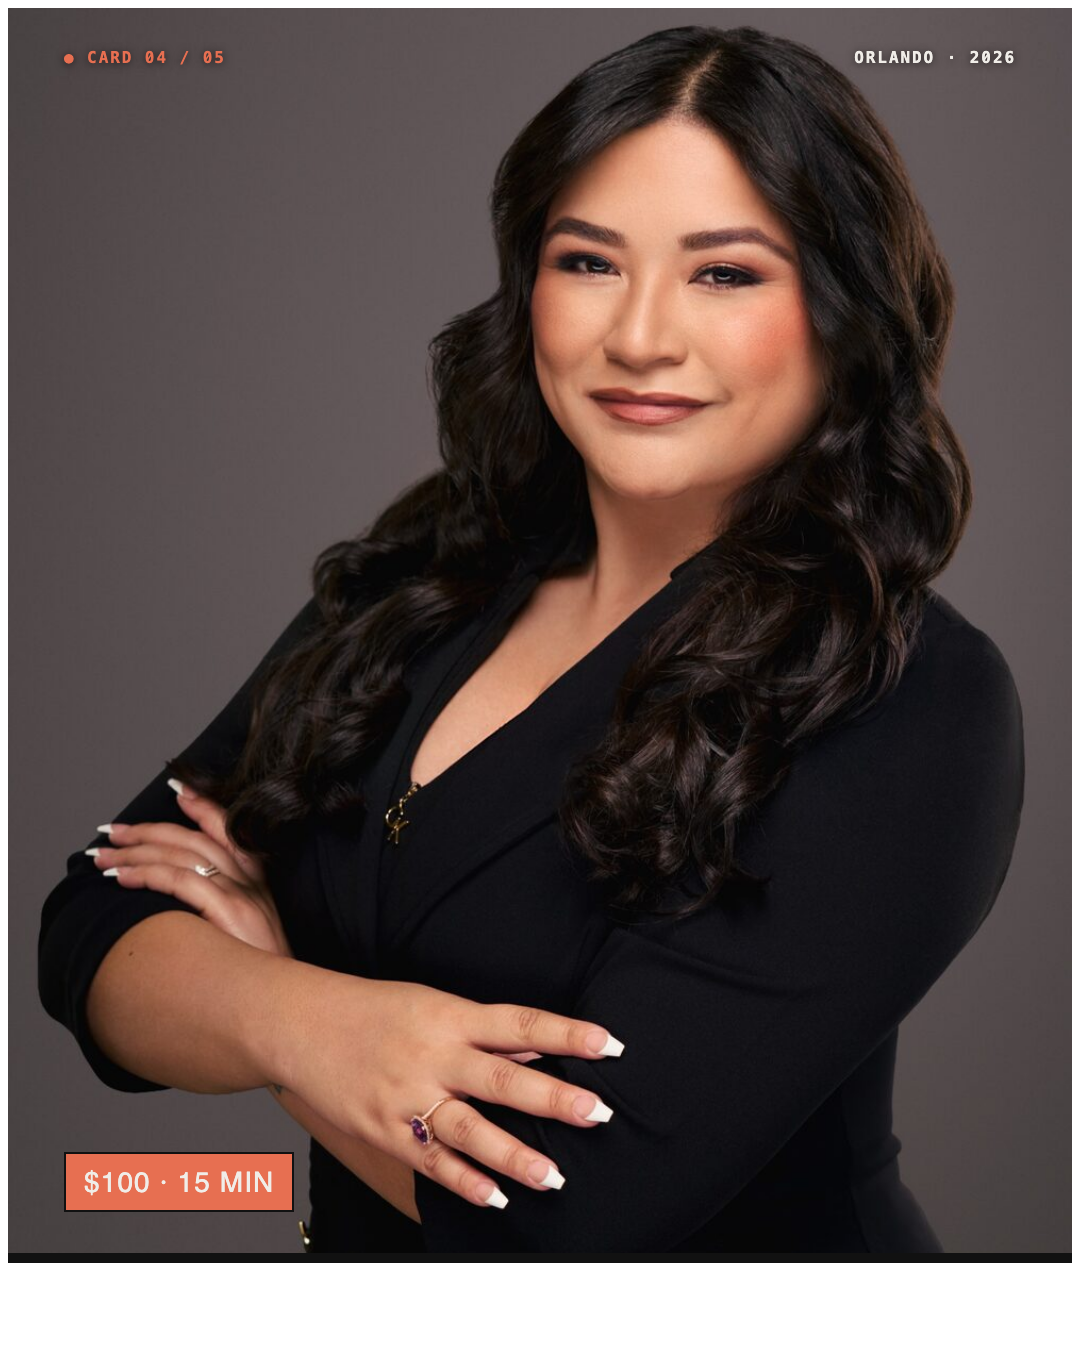
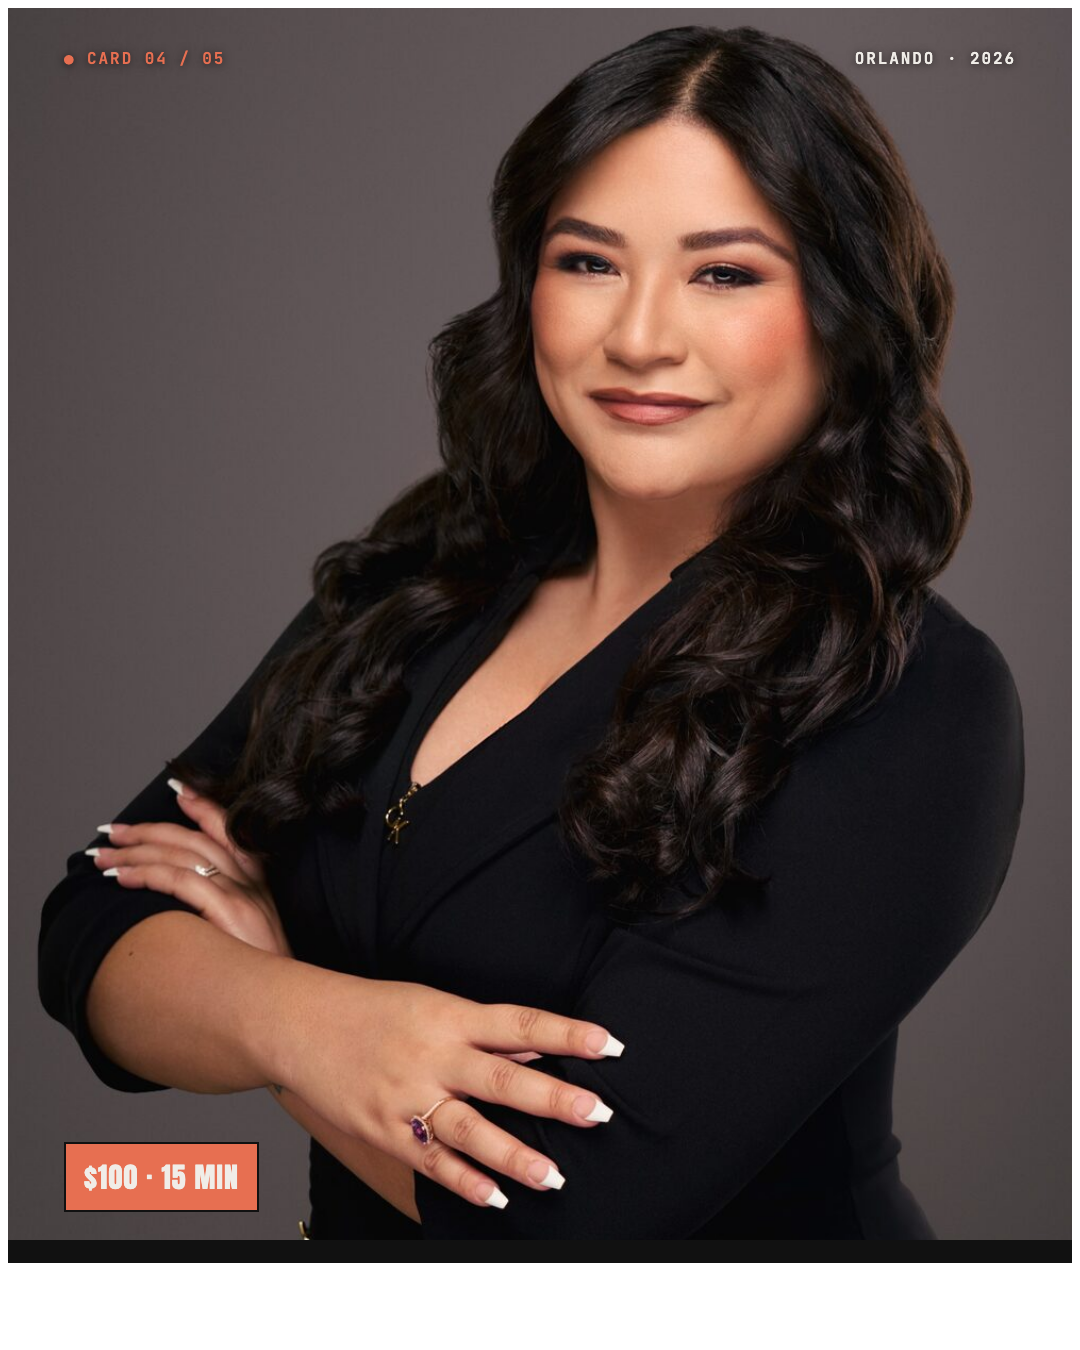
Switch ads to system bold fonts (Impact/Helvetica Black) - guaranteed render

diff --git a/ads/_shared/shared.css b/ads/_shared/shared.css
@@ -1,8 +1,8 @@
-/* GLPX 100 Headshots ad design system — shared across all 4:5 statics */
+/* GLPX 100 Headshots ad design system — system-font safe */
 * { margin: 0; padding: 0; box-sizing: border-box; }
 html, body { width: 1080px; height: 1350px; overflow: hidden; background: #F0EDE8; }
 body {
-  font-family: 'Inter', sans-serif;
+  font-family: -apple-system, BlinkMacSystemFont, "Helvetica Neue", "Arial", sans-serif;
   color: #111111;
   position: relative;
   display: flex;
@@ -11,20 +11,21 @@ body {
 
 .corner-tl, .corner-tr, .corner-bl, .corner-br {
   position: absolute;
-  font-family: 'JetBrains Mono', monospace;
+  font-family: "SF Mono", "Menlo", "Consolas", "Courier New", monospace;
   font-size: 16px;
   letter-spacing: 0.1em;
   text-transform: uppercase;
-  font-weight: 600;
+  font-weight: 700;
 }
 .corner-tl { top: 40px; left: 56px; color: #E76F51; }
 .corner-tr { top: 40px; right: 56px; color: #E76F51; }
-.corner-bl { bottom: 40px; left: 56px; color: rgba(17,17,17,0.5); font-weight: 500; }
-.corner-br { bottom: 40px; right: 56px; color: rgba(17,17,17,0.5); font-weight: 500; }
+.corner-bl { bottom: 40px; left: 56px; color: rgba(17,17,17,0.55); font-weight: 600; }
+.corner-br { bottom: 40px; right: 56px; color: rgba(17,17,17,0.55); font-weight: 600; }
 
 .hook-display {
-  font-family: 'Anton', sans-serif;
-  line-height: 0.93;
+  font-family: "Impact", "Arial Black", "Helvetica Neue", sans-serif;
+  font-weight: 900;
+  line-height: 0.95;
   letter-spacing: -0.02em;
   text-transform: uppercase;
   color: #111111;
@@ -32,33 +33,36 @@ body {
 .hook-display .accent { color: #E76F51; }
 
 .specs-row {
-  font-family: 'Inter', sans-serif;
-  font-weight: 700;
-  font-size: 22px;
+  font-family: -apple-system, "Helvetica Neue", "Arial", sans-serif;
+  font-weight: 800;
+  font-size: 24px;
   text-align: center;
-  letter-spacing: 0.02em;
+  letter-spacing: 0.03em;
   color: #111111;
+  text-transform: uppercase;
 }
-.specs-row .dim { color: rgba(17,17,17,0.55); font-weight: 500; }
+.specs-row .dim { color: rgba(17,17,17,0.55); font-weight: 600; }
 
 .cta-pill {
   background: #E76F51;
   color: #F0EDE8;
-  font-family: 'Anton', sans-serif;
-  font-size: 36px;
+  font-family: "Impact", "Arial Black", "Helvetica Neue", sans-serif;
+  font-weight: 900;
+  font-size: 40px;
   letter-spacing: 0.04em;
-  text-transform: uppercase;
-  padding: 22px 32px;
+  padding: 26px 32px;
   text-align: center;
-  border: 2px solid #111111;
+  border: 3px solid #111111;
+  text-transform: uppercase;
 }
 
 .frame-tag {
-  background: rgba(0,0,0,0.85);
+  background: rgba(0,0,0,0.88);
   color: #F0EDE8;
-  font-family: 'JetBrains Mono', monospace;
-  font-size: 12px;
-  letter-spacing: 0.12em;
+  font-family: "SF Mono", "Menlo", "Courier New", monospace;
+  font-size: 13px;
+  letter-spacing: 0.14em;
   padding: 8px 12px;
   text-transform: uppercase;
+  font-weight: 700;
 }

diff --git a/ads/ad-3-carousel/card-5-close.html b/ads/ad-3-carousel/card-5-close.html
@@ -1,20 +1,19 @@
 <!DOCTYPE html>
 <html><head><meta charset="UTF-8" />
-<link href="https://fonts.googleapis.com/css2?family=Anton&family=JetBrains+Mono:wght@500;600&family=Inter:wght@500;700&display=swap" rel="stylesheet" />
 <link rel="stylesheet" href="../_shared/shared.css" />
 <style>
   body { padding: 110px 56px 90px; gap: 32px; }
-  .heading { font-family: 'Anton', sans-serif; font-size: 132px; line-height: 0.93; letter-spacing: -0.02em; text-transform: uppercase; }
+  .heading { font-family: "Impact", "Arial Black", "Helvetica Neue", sans-serif; font-weight: 900; font-size: 132px; line-height: 0.93; letter-spacing: -0.02em; text-transform: uppercase; }
   .heading .accent { color: #E76F51; }
   .included { display: flex; flex-direction: column; gap: 0; border: 2px solid #111111; }
   .included .row { display: grid; grid-template-columns: 80px 1fr; align-items: center; padding: 18px 22px; border-bottom: 2px solid #111111; }
   .included .row:last-child { border-bottom: none; }
-  .included .num { font-family: 'JetBrains Mono', monospace; font-size: 14px; font-weight: 600; letter-spacing: 0.12em; color: #E76F51; }
-  .included .label { font-family: 'Inter', sans-serif; font-weight: 700; font-size: 22px; letter-spacing: 0.01em; color: #111111; text-transform: uppercase; }
+  .included .num { font-family: "SF Mono", "Menlo", "Courier New", monospace; font-weight: 700; font-size: 14px; font-weight: 600; letter-spacing: 0.12em; color: #E76F51; }
+  .included .label { font-family: -apple-system, "Helvetica Neue", sans-serif; font-weight: 700; font-size: 22px; letter-spacing: 0.01em; color: #111111; text-transform: uppercase; }
   .calendar-row { display: grid; grid-template-columns: repeat(4, 1fr); gap: 14px; }
   .day-cell { background: #111111; color: #F0EDE8; padding: 14px 12px; text-align: center; border: 2px solid #111111; }
-  .day-cell .num { font-family: 'Anton', sans-serif; font-size: 48px; line-height: 1; color: #F0EDE8; }
-  .day-cell .label { font-family: 'JetBrains Mono', monospace; font-size: 11px; letter-spacing: 0.1em; text-transform: uppercase; margin-top: 4px; color: rgba(240,237,232,0.7); }
+  .day-cell .num { font-family: "Impact", "Arial Black", "Helvetica Neue", sans-serif; font-weight: 900; font-size: 48px; line-height: 1; color: #F0EDE8; }
+  .day-cell .label { font-family: "SF Mono", "Menlo", "Courier New", monospace; font-weight: 700; font-size: 11px; letter-spacing: 0.1em; text-transform: uppercase; margin-top: 4px; color: rgba(240,237,232,0.7); }
   .footer { margin-top: auto; }
 </style></head>
 <body>

diff --git a/ads/ad-3-carousel/card-3-founder.html b/ads/ad-3-carousel/card-3-founder.html
@@ -1,18 +1,17 @@
 <!DOCTYPE html>
 <html><head><meta charset="UTF-8" />
-<link href="https://fonts.googleapis.com/css2?family=Anton&family=JetBrains+Mono:wght@500;600&family=Inter:wght@500;700&display=swap" rel="stylesheet" />
 <link rel="stylesheet" href="../_shared/shared.css" />
 <style>
   body { padding: 0; }
   .frame { width: 100%; height: 100%; position: relative; overflow: hidden; }
   .frame img { width: 100%; height: 100%; object-fit: cover; object-position: center 18%; }
   .overlay-top { position: absolute; top: 40px; left: 56px; right: 56px; display: flex; justify-content: space-between; }
-  .overlay-top span { font-family: 'JetBrains Mono', monospace; font-size: 16px; letter-spacing: 0.12em; text-transform: uppercase; font-weight: 600; color: #F0EDE8; text-shadow: 0 1px 8px rgba(0,0,0,0.6); }
+  .overlay-top span { font-family: "SF Mono", "Menlo", "Courier New", monospace; font-weight: 700; font-size: 16px; letter-spacing: 0.12em; text-transform: uppercase; font-weight: 600; color: #F0EDE8; text-shadow: 0 1px 8px rgba(0,0,0,0.6); }
   .overlay-top .left { color: #E76F51; }
-  .badge { position: absolute; bottom: 130px; left: 56px; background: #E76F51; color: #F0EDE8; font-family: 'Anton', sans-serif; font-size: 28px; letter-spacing: 0.04em; padding: 12px 18px; text-transform: uppercase; border: 2px solid #111111; }
+  .badge { position: absolute; bottom: 130px; left: 56px; background: #E76F51; color: #F0EDE8; font-family: "Impact", "Arial Black", "Helvetica Neue", sans-serif; font-weight: 900; font-size: 28px; letter-spacing: 0.04em; padding: 12px 18px; text-transform: uppercase; border: 2px solid #111111; }
   .strip { position: absolute; bottom: 0; left: 0; right: 0; background: #111111; color: #F0EDE8; padding: 24px 56px; display: flex; justify-content: space-between; align-items: center; }
-  .strip .role { font-family: 'Anton', sans-serif; font-size: 36px; letter-spacing: 0.04em; text-transform: uppercase; }
-  .strip .meta { font-family: 'JetBrains Mono', monospace; font-size: 14px; letter-spacing: 0.1em; text-transform: uppercase; color: rgba(240,237,232,0.65); }
+  .strip .role { font-family: "Impact", "Arial Black", "Helvetica Neue", sans-serif; font-weight: 900; font-size: 36px; letter-spacing: 0.04em; text-transform: uppercase; }
+  .strip .meta { font-family: "SF Mono", "Menlo", "Courier New", monospace; font-weight: 700; font-size: 14px; letter-spacing: 0.1em; text-transform: uppercase; color: rgba(240,237,232,0.65); }
 </style></head>
 <body>
   <div class="frame">

diff --git a/ads/ad-3-carousel/card-4-coach.html b/ads/ad-3-carousel/card-4-coach.html
@@ -1,18 +1,17 @@
 <!DOCTYPE html>
 <html><head><meta charset="UTF-8" />
-<link href="https://fonts.googleapis.com/css2?family=Anton&family=JetBrains+Mono:wght@500;600&family=Inter:wght@500;700&display=swap" rel="stylesheet" />
 <link rel="stylesheet" href="../_shared/shared.css" />
 <style>
   body { padding: 0; }
   .frame { width: 100%; height: 100%; position: relative; overflow: hidden; }
   .frame img { width: 100%; height: 100%; object-fit: cover; object-position: center 18%; }
   .overlay-top { position: absolute; top: 40px; left: 56px; right: 56px; display: flex; justify-content: space-between; }
-  .overlay-top span { font-family: 'JetBrains Mono', monospace; font-size: 16px; letter-spacing: 0.12em; text-transform: uppercase; font-weight: 600; color: #F0EDE8; text-shadow: 0 1px 8px rgba(0,0,0,0.6); }
+  .overlay-top span { font-family: "SF Mono", "Menlo", "Courier New", monospace; font-weight: 700; font-size: 16px; letter-spacing: 0.12em; text-transform: uppercase; font-weight: 600; color: #F0EDE8; text-shadow: 0 1px 8px rgba(0,0,0,0.6); }
   .overlay-top .left { color: #E76F51; }
-  .badge { position: absolute; bottom: 130px; left: 56px; background: #E76F51; color: #F0EDE8; font-family: 'Anton', sans-serif; font-size: 28px; letter-spacing: 0.04em; padding: 12px 18px; text-transform: uppercase; border: 2px solid #111111; }
+  .badge { position: absolute; bottom: 130px; left: 56px; background: #E76F51; color: #F0EDE8; font-family: "Impact", "Arial Black", "Helvetica Neue", sans-serif; font-weight: 900; font-size: 28px; letter-spacing: 0.04em; padding: 12px 18px; text-transform: uppercase; border: 2px solid #111111; }
   .strip { position: absolute; bottom: 0; left: 0; right: 0; background: #111111; color: #F0EDE8; padding: 24px 56px; display: flex; justify-content: space-between; align-items: center; }
-  .strip .role { font-family: 'Anton', sans-serif; font-size: 36px; letter-spacing: 0.04em; text-transform: uppercase; }
-  .strip .meta { font-family: 'JetBrains Mono', monospace; font-size: 14px; letter-spacing: 0.1em; text-transform: uppercase; color: rgba(240,237,232,0.65); }
+  .strip .role { font-family: "Impact", "Arial Black", "Helvetica Neue", sans-serif; font-weight: 900; font-size: 36px; letter-spacing: 0.04em; text-transform: uppercase; }
+  .strip .meta { font-family: "SF Mono", "Menlo", "Courier New", monospace; font-weight: 700; font-size: 14px; letter-spacing: 0.1em; text-transform: uppercase; color: rgba(240,237,232,0.65); }
 </style></head>
 <body>
   <div class="frame">

diff --git a/ads/ad-5-time-pressure/design.html b/ads/ad-5-time-pressure/design.html
@@ -2,12 +2,11 @@
 <html>
 <head>
 <meta charset="UTF-8" />
-<link href="https://fonts.googleapis.com/css2?family=Anton&family=JetBrains+Mono:wght@500;600&family=Inter:wght@500;700&display=swap" rel="stylesheet" />
 <style>
   * { margin: 0; padding: 0; box-sizing: border-box; }
   html, body { width: 1080px; height: 1350px; overflow: hidden; background: #F0EDE8; }
   body {
-    font-family: 'Inter', sans-serif;
+    font-family: -apple-system, "Helvetica Neue", sans-serif;
     color: #111111;
     display: flex;
     flex-direction: column;
@@ -18,7 +17,7 @@
   .corner-tl, .corner-tr, .corner-bl, .corner-br {
     position: absolute;
     color: #E76F51;
-    font-family: 'JetBrains Mono', monospace;
+    font-family: "SF Mono", "Menlo", "Courier New", monospace; font-weight: 700;
     font-size: 16px;
     letter-spacing: 0.1em;
     text-transform: uppercase;
@@ -30,7 +29,7 @@
   .corner-br { bottom: 32px; right: 56px; color: rgba(17,17,17,0.5); }
 
   .hook {
-    font-family: 'Anton', sans-serif;
+    font-family: "Impact", "Arial Black", "Helvetica Neue", sans-serif; font-weight: 900;
     font-size: 132px;
     line-height: 0.93;
     letter-spacing: -0.02em;
@@ -59,7 +58,7 @@
     right: 16px;
     background: rgba(0,0,0,0.85);
     color: #F0EDE8;
-    font-family: 'JetBrains Mono', monospace;
+    font-family: "SF Mono", "Menlo", "Courier New", monospace; font-weight: 700;
     font-size: 12px;
     letter-spacing: 0.12em;
     padding: 8px 12px;
@@ -84,13 +83,13 @@
     border: 2px solid #111111;
   }
   .day-cell .num {
-    font-family: 'Anton', sans-serif;
+    font-family: "Impact", "Arial Black", "Helvetica Neue", sans-serif; font-weight: 900;
     font-size: 64px;
     line-height: 1;
     color: #F0EDE8;
   }
   .day-cell .label {
-    font-family: 'JetBrains Mono', monospace;
+    font-family: "SF Mono", "Menlo", "Courier New", monospace; font-weight: 700;
     font-size: 12px;
     letter-spacing: 0.1em;
     text-transform: uppercase;
@@ -98,7 +97,7 @@
     color: rgba(240,237,232,0.7);
   }
   .specs {
-    font-family: 'Inter', sans-serif;
+    font-family: -apple-system, "Helvetica Neue", sans-serif;
     font-weight: 700;
     font-size: 22px;
     text-align: center;
@@ -109,7 +108,7 @@
   .cta-pill {
     background: #E76F51;
     color: #F0EDE8;
-    font-family: 'Anton', sans-serif;
+    font-family: "Impact", "Arial Black", "Helvetica Neue", sans-serif; font-weight: 900;
     font-size: 36px;
     letter-spacing: 0.04em;
     text-transform: uppercase;

diff --git a/ads/ad-3-carousel/card-2-realtor.html b/ads/ad-3-carousel/card-2-realtor.html
@@ -1,13 +1,12 @@
 <!DOCTYPE html>
 <html><head><meta charset="UTF-8" />
-<link href="https://fonts.googleapis.com/css2?family=Anton&family=JetBrains+Mono:wght@500;600&family=Inter:wght@500;700&display=swap" rel="stylesheet" />
 <link rel="stylesheet" href="../_shared/shared.css" />
 <style>
   body { padding: 0; }
   .frame { width: 100%; height: 100%; position: relative; overflow: hidden; }
   .frame img { width: 100%; height: 100%; object-fit: cover; object-position: center 18%; }
   .overlay-top { position: absolute; top: 40px; left: 56px; right: 56px; display: flex; justify-content: space-between; }
-  .overlay-top span { font-family: 'JetBrains Mono', monospace; font-size: 16px; letter-spacing: 0.12em; text-transform: uppercase; font-weight: 600; color: #F0EDE8; text-shadow: 0 1px 8px rgba(0,0,0,0.6); }
+  .overlay-top span { font-family: "SF Mono", "Menlo", "Courier New", monospace; font-weight: 700; font-size: 16px; letter-spacing: 0.12em; text-transform: uppercase; font-weight: 600; color: #F0EDE8; text-shadow: 0 1px 8px rgba(0,0,0,0.6); }
   .overlay-top .left { color: #E76F51; }
   .badge {
     position: absolute;
@@ -15,7 +14,7 @@
     left: 56px;
     background: #E76F51;
     color: #F0EDE8;
-    font-family: 'Anton', sans-serif;
+    font-family: "Impact", "Arial Black", "Helvetica Neue", sans-serif; font-weight: 900;
     font-size: 28px;
     letter-spacing: 0.04em;
     padding: 12px 18px;
@@ -33,13 +32,13 @@
     align-items: center;
   }
   .strip .role {
-    font-family: 'Anton', sans-serif;
+    font-family: "Impact", "Arial Black", "Helvetica Neue", sans-serif; font-weight: 900;
     font-size: 36px;
     letter-spacing: 0.04em;
     text-transform: uppercase;
   }
   .strip .meta {
-    font-family: 'JetBrains Mono', monospace;
+    font-family: "SF Mono", "Menlo", "Courier New", monospace; font-weight: 700;
     font-size: 14px;
     letter-spacing: 0.1em;
     text-transform: uppercase;

diff --git a/ads/ad-3-carousel/card-1-hook.html b/ads/ad-3-carousel/card-1-hook.html
@@ -1,6 +1,5 @@
 <!DOCTYPE html>
 <html><head><meta charset="UTF-8" />
-<link href="https://fonts.googleapis.com/css2?family=Anton&family=JetBrains+Mono:wght@500;600&family=Inter:wght@500;700&display=swap" rel="stylesheet" />
 <link rel="stylesheet" href="../_shared/shared.css" />
 <style>
   body { padding: 100px 56px 80px; gap: 36px; }
@@ -8,7 +7,7 @@
   .portrait-frame { width: 100%; height: 540px; overflow: hidden; border: 2px solid #111111; position: relative; flex-shrink: 0; }
   .portrait-frame img { width: 100%; height: 100%; object-fit: cover; object-position: center 8%; }
   .portrait-frame .tag { position: absolute; top: 16px; right: 16px; }
-  .swipe { display: flex; align-items: center; justify-content: center; gap: 12px; font-family: 'JetBrains Mono', monospace; font-size: 16px; letter-spacing: 0.12em; text-transform: uppercase; color: rgba(17,17,17,0.7); margin-top: auto; }
+  .swipe { display: flex; align-items: center; justify-content: center; gap: 12px; font-family: "SF Mono", "Menlo", "Courier New", monospace; font-weight: 700; font-size: 16px; letter-spacing: 0.12em; text-transform: uppercase; color: rgba(17,17,17,0.7); margin-top: auto; }
   .swipe .arrow { font-size: 22px; color: #E76F51; }
 </style></head>
 <body>

diff --git a/ads/ad-2-three-pros/design.html b/ads/ad-2-three-pros/design.html
@@ -1,11 +1,10 @@
 <!DOCTYPE html>
 <html><head><meta charset="UTF-8" />
-<link href="https://fonts.googleapis.com/css2?family=Anton&family=JetBrains+Mono:wght@500;600&family=Inter:wght@500;700&display=swap" rel="stylesheet" />
 <link rel="stylesheet" href="../_shared/shared.css" />
 <style>
   body { padding: 110px 56px 100px; gap: 36px; }
   .hook { font-size: 124px; }
-  .sub { font-family: 'Inter', sans-serif; font-weight: 500; font-size: 22px; color: rgba(17,17,17,0.7); margin-top: 18px; max-width: 720px; line-height: 1.4; }
+  .sub { font-family: -apple-system, "Helvetica Neue", sans-serif; font-weight: 500; font-size: 22px; color: rgba(17,17,17,0.7); margin-top: 18px; max-width: 720px; line-height: 1.4; }
   .grid-3 { display: grid; grid-template-columns: 1fr 1fr 1fr; gap: 14px; flex-shrink: 0; }
   .grid-3 .frame { aspect-ratio: 3/4; overflow: hidden; border: 2px solid #111111; position: relative; }
   .grid-3 .frame img { width: 100%; height: 100%; object-fit: cover; object-position: center 18%; }
